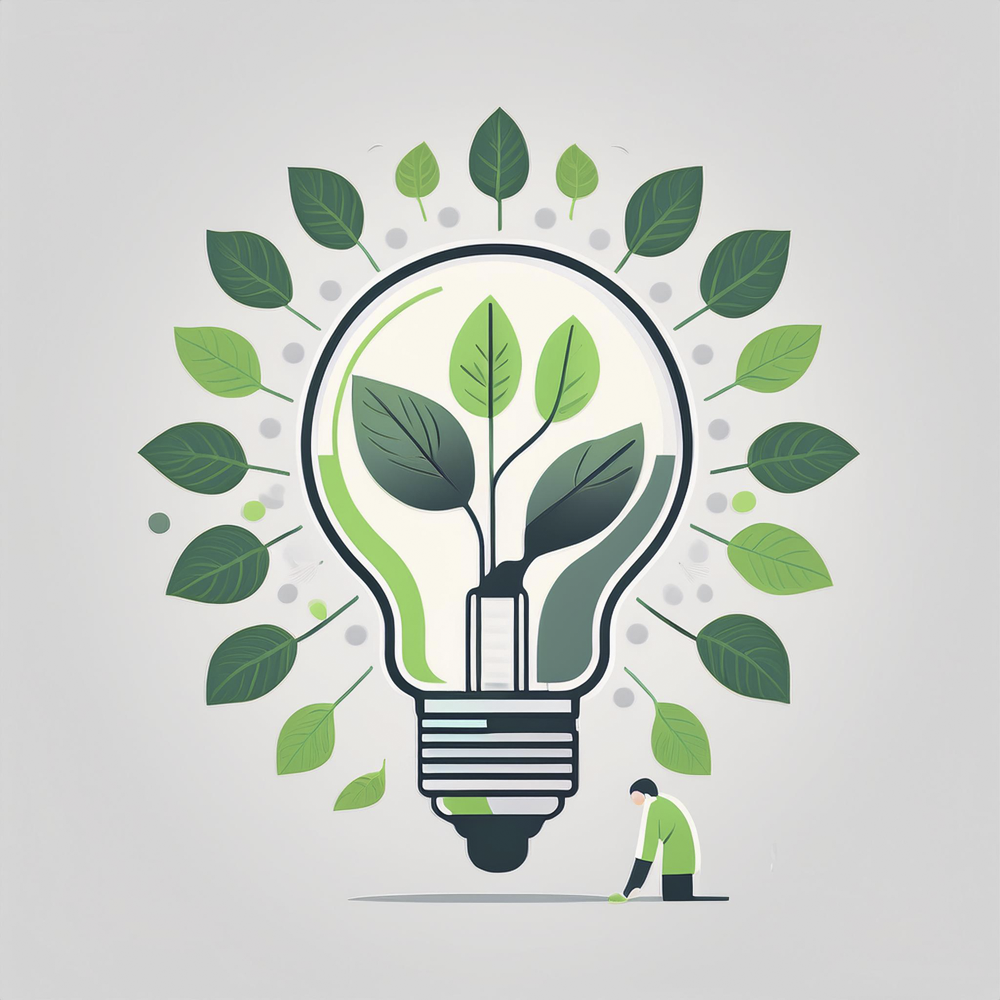
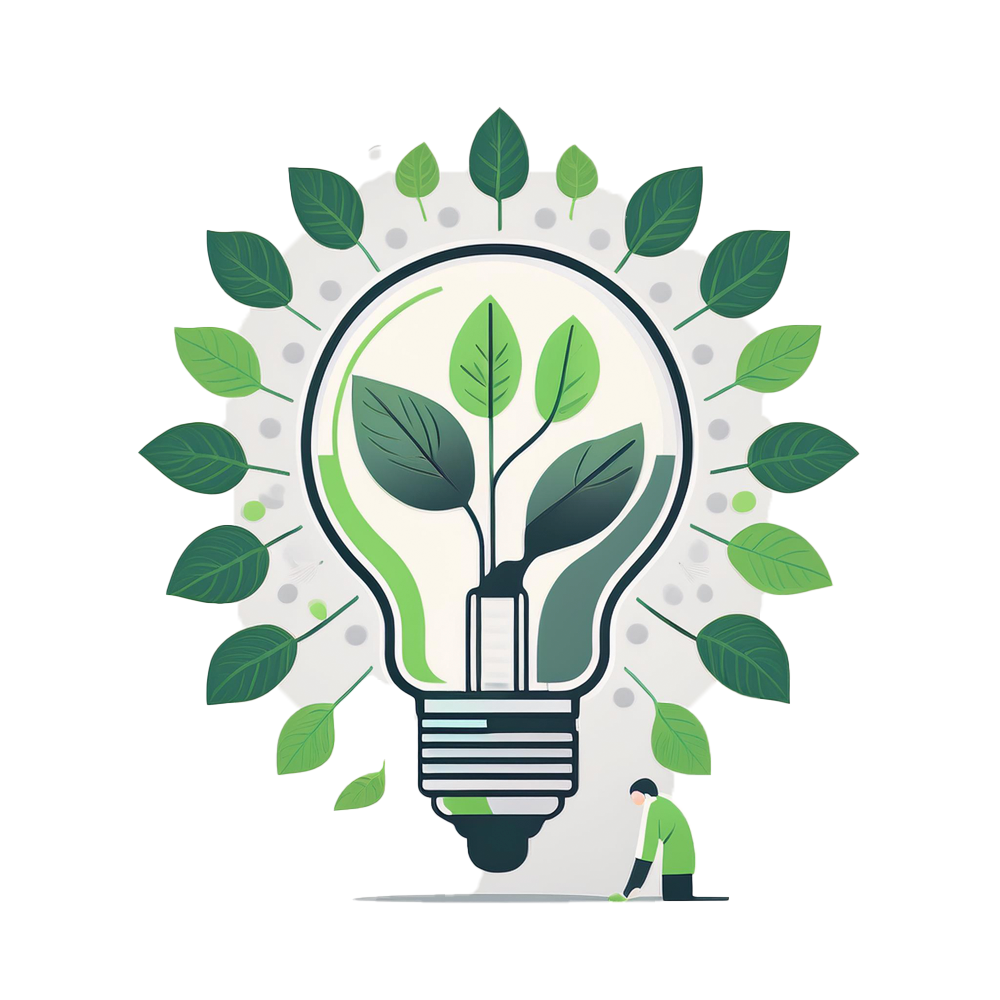
Page-2

diff --git a/src/styles/styles.css b/src/styles/styles.css
@@ -16,9 +16,9 @@
     padding: 0;
     box-sizing: border-box;
 }
-
+/* Cor do background responsivo */
 body {
-    background-color: #ffffff
+    background-color: #678a50
 }
 
 /*home */
@@ -42,6 +42,7 @@ body {
 
 #home {
     background-color: #d5d5d5 ;
+    position: relative;
 }
 
 #cta .title {
@@ -62,13 +63,13 @@ body {
 
 #banner {
     margin-left: 750px;
-    margin-top: -430px;
+    margin-top: -450px;
     align-items: start;
     justify-content: end;
 }
 
 #banner img {
-    height: 40vw;
+    height: 45vw;
     width: fit-content;
     z-index: 2;
 }
@@ -90,15 +91,14 @@ body {
     border-radius: 10px;
     text-decoration: none;
     color: #1d1d1d;
-    box-shadow: 0px 0px 12px 4px rgba(0, 0, 0, 0.579);
     transition: box-shadow .3s ease;
 }
 
-#social-media-buttons:hover {
-    box-shadow: 0px 0px 12px 8px rgba(0, 3, 1, 0.425);
+.social-media-buttons a:hover {
+    box-shadow: 0px 0px 12px 8px #678a50;
 }
 .shape {
-    background-color: rgb(228, 228, 224);
+    background-color: #ffffff;
     width: 50%;
     height: 100%;
     position: absolute;
@@ -123,6 +123,7 @@ header {
     justify-content: space-between;
     background-color: #678a50;
     border-radius: 5px;
+    
    
 }
 
@@ -132,7 +133,7 @@ header {
     font-size: 60px;
     color: #ffffff;
     text-decoration: solid;
-    font-family: "Parkinsans";
+    font-family: "Parkinsans", sans-serif;
     
    
 }
@@ -146,9 +147,10 @@ header {
 
 .nav-item a {
     text-decoration: none ;
-    color: rgb(0, 19, 2);
+    color: rgb(255, 255, 255);
     font-weight: 600;
     cursor: pointer;
+    font-family: sans-serif;
     
 }
 
@@ -178,14 +180,16 @@ header {
     justify-content: center;
     background-color: #ffffff;
     border-radius: 12px ;
-    padding: 10px 14px;
+    padding: 10px 14px 8px;
     font-weight: 600;
     box-shadow: 0px 0px 10px 2px rgba(0, 0, 0, 0.551);
     transition: background-color .3s ease ;
     color: #678a50;
+   
 }
 .btn-default a {
     cursor: pointer;
+    font-family: sans-serif;
 }
 
 .btn-default:hover {
@@ -241,10 +245,29 @@ header {
         text-align: center;
     }
 
+    @media screen and (max-width: 1000px) {
+        #home {
+            min-height: 100%;
+            padding-top: 0px;
+        }
+
+        #banner,
+        #banner img {
+            display: none  ;
+        }
+        #cta {
+            width: 100%;
+            text-align: center;
+            align-items: center;
+        }
+    }
+        
+      
+
+    
+
+
+
 
 
 }
-
-
-
-

diff --git a/index.html b/index.html
@@ -73,16 +73,18 @@
 
                     <p class="description">
                        Agencia criativa de design e marketing digital para impulsionar o seu negócio!
+                     
                     </p>
+                    
 
                 <div class="social-media-buttons">
 
-                        <a href="">
+                        <a href="https://wa.me/+5547999014080?text=Ol%C3%A1%20gostaria%20de%20saber%20mais%20sobre%20os%20servi%C3%A7os%20da%20Garden!" target="_blank">
                             <i class="fa-brands fa-whatsapp">
                             </i>
                         </a>
 
-                        <a href="">
+                        <a href="https://www.instagram.com/gardenagcreative/" target="_blank">
                             <i class="fa-brands fa-instagram">
                             </i>
                         </a>
@@ -105,8 +107,15 @@
            
         </section>
 
+        <section id="Conheça">
+            <h2 class="section-title">Conheça mais</h2>
+            <h3 class="subtitle"></h3>
+        </section>
+
+
 
     </main>
+    
 
     <script src="src/javascript/scripts.js"></script>
 </body>
